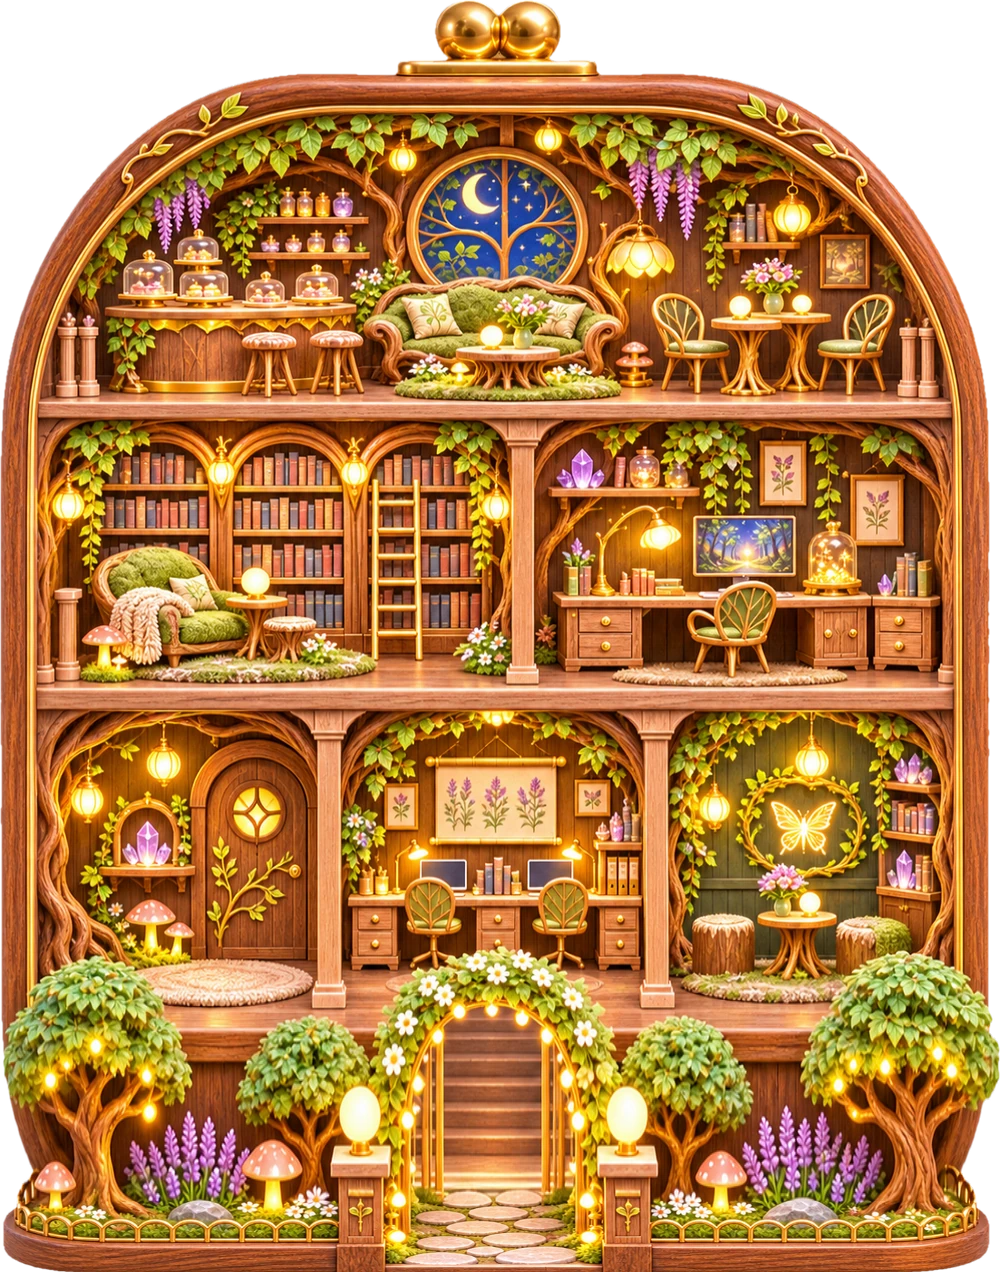
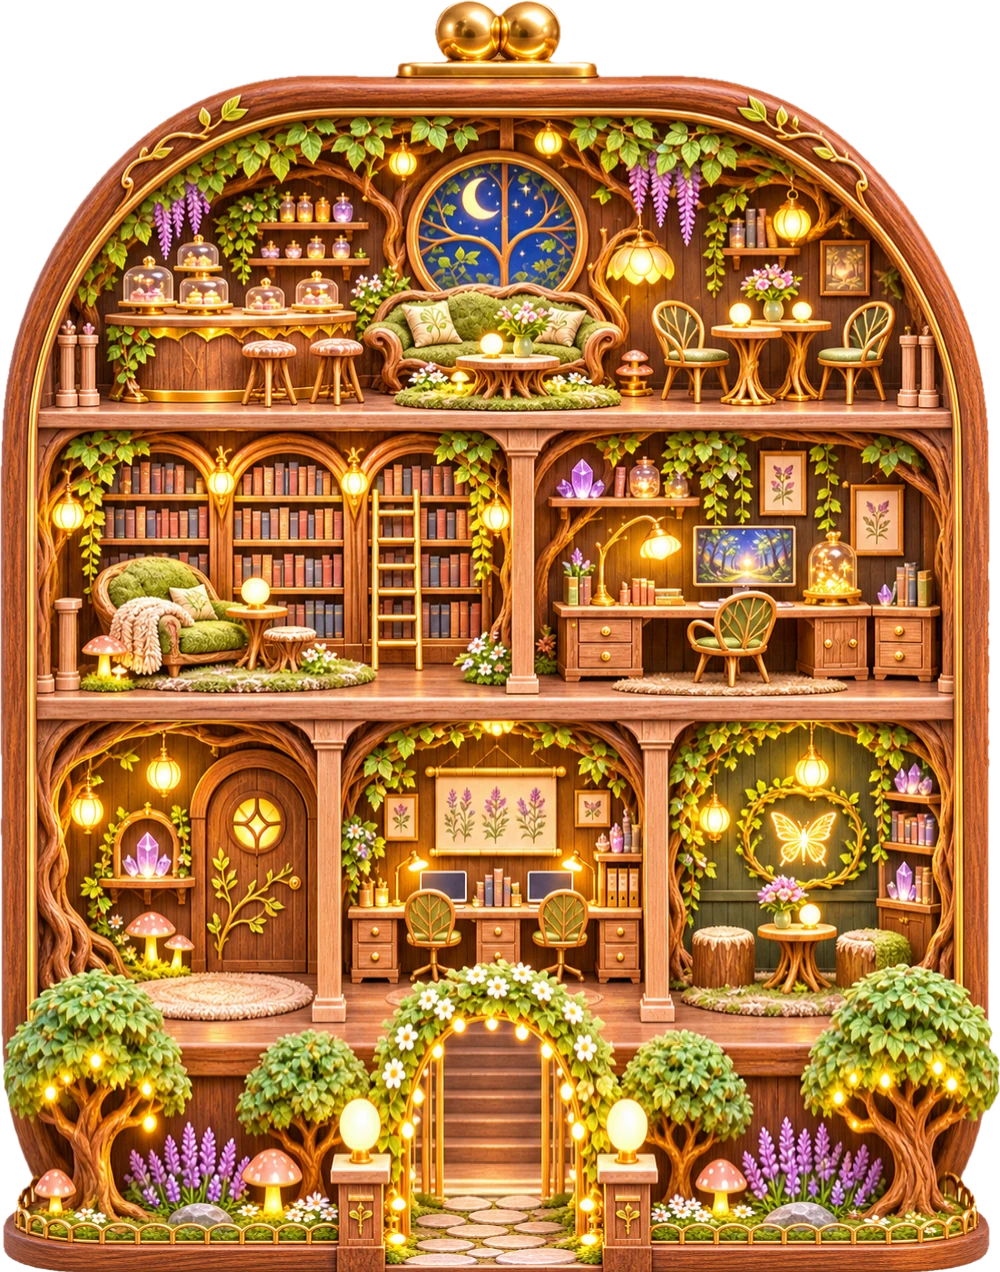
나무 하우스를 조금 내림, 설정에 바닥 맞춤 안내선(눈금) 켜기 추가
Claude-Session: https://claude.ai/code/session_011wWXPaiuu8PZPFdYFKdKKY

diff --git a/src/App.tsx b/src/App.tsx
@@ -98,6 +98,9 @@ export default function App() {
   }, [arrive, revealed])
   const landMode = useLandscape()
   const land = landMode !== null
+  // 바닥 맞춤 안내선 (이 기기에서만, 설정 > 하우스 그림에서 켜요)
+  const [guide, setGuideState] = useState(() => { try { return localStorage.getItem('mow-guide') === '1' } catch { return false } })
+  const setGuide = (v: boolean) => { setGuideState(v); try { localStorage.setItem('mow-guide', v ? '1' : '0') } catch { /* 무시 */ } }
   const phoneLand = landMode === 'phone'
   const [sideTab, setSideTab] = useState<'todo' | 'cal' | 'list'>('todo')
   // 가로 화면에서 하우스를 확대해서 볼 수 있어요 (1~2.6배)
@@ -367,7 +370,7 @@ export default function App() {
         <div className="pipbg" style={{ backgroundImage: `url(${themed(dark).bg})` }} />
         <div className="pipcontent">
         <img className="piplogo" src={themed(dark).logo} alt="MINI OFFICE WORLD" />
-        <House dark={dark} skin={settings.skin} activities={activities} alerts={alerts} cheers={cheers} labels={labels} shown={shown} speech={{ ...speech, ...(userSay ? { user: userSay } : {}) }}
+        <House dark={dark} skin={settings.skin} guide={guide} activities={activities} alerts={alerts} cheers={cheers} labels={labels} shown={shown} speech={{ ...speech, ...(userSay ? { user: userSay } : {}) }}
           remaining={items.length} selected={pipAv}
           onRoom={() => {}} onSelect={(id) => setPipAv((cur) => (id === 'user' || cur === id ? null : id))} />
         {pi && pw && pa ? (
@@ -421,7 +424,7 @@ export default function App() {
 
       <div className="stagewrap">
       <main className="stage">
-        <House dark={dark} skin={settings.skin} activities={activities} alerts={alerts} cheers={cheers} labels={labels} shown={shown} speech={{ ...speech, ...(userSay ? { user: userSay } : {}) }} remaining={items.length} onReceived={onReceived} selected={selected} onRoom={setRoom}
+        <House dark={dark} skin={settings.skin} guide={guide} activities={activities} alerts={alerts} cheers={cheers} labels={labels} shown={shown} speech={{ ...speech, ...(userSay ? { user: userSay } : {}) }} remaining={items.length} onReceived={onReceived} selected={selected} onRoom={setRoom}
           onSelect={pickAvatar} />
       </main>
       {land && (
@@ -517,6 +520,8 @@ export default function App() {
         <Sheet glass tall title="설정" onClose={close}>
           <SettingsView
             tasks={allTasks}
+            guide={guide}
+            onGuide={setGuide}
             settings={settings}
             onSettings={updateSettings}
             onBackedUp={() => setBackupTick((n) => n + 1)}

diff --git a/src/components/House.tsx b/src/components/House.tsx
@@ -20,6 +20,8 @@ interface Props {
   dark?: boolean
   /** 라이트 모드 하우스 그림 (기본·나무·바다) */
   skin?: Skin
+  /** 바닥 맞춤 안내선 보기 (설정에서 켜요) */
+  guide?: boolean
   /** 접수대에서 일을 받기 시작한 아바타 */
   onReceived?: (id: AvatarId) => void
   selected: AvatarId | null
@@ -30,11 +32,25 @@ interface Props {
 /** 글자 수에 맞춘 말풍선 폭 (한글은 넓게, 영문·숫자는 좁게) */
 const tw = (t: string, size: number) => [...t].reduce((n, c) => n + (c.charCodeAt(0) > 255 ? size : size * 0.58), 0)
 
-export default function House({ activities, alerts, cheers, labels, shown, speech, remaining, selected, onSelect, onRoom, dark = false, skin = 'default', onReceived }: Props) {
+export default function House({ activities, alerts, cheers, labels, shown, speech, remaining, selected, onSelect, onRoom, dark = false, skin = 'default', guide = false, onReceived }: Props) {
   const th = themed(dark, skin)
   return (
     <svg viewBox={`0 0 ${th.houseDim.w} ${th.houseDim.h}`} className="house" role="img" aria-label="미니어처 오피스 하우스">
       <image className={`houseimg ${dark && skin !== 'default' ? `nightskin ${skin}` : ''}`} href={th.house} width={th.houseDim.w} height={th.houseDim.h} />
+      {guide && (
+        <g pointerEvents="none" fontSize="19" fontWeight="800">
+          {[408, 690, 1002].map((y0) => (
+            <g key={y0}>
+              {Array.from({ length: 13 }, (_, i) => i - 6).map((k) => (
+                <g key={k}>
+                  <line x1="0" x2="1000" y1={y0 + k * 10} y2={y0 + k * 10} stroke={k === 0 ? '#ff2d55' : k < 0 ? '#2d7dff' : '#16a34a'} strokeWidth={k === 0 ? 3 : 1.2} strokeOpacity={k === 0 ? 0.95 : 0.7} />
+                  {(k % 2 === 0) && <text x="6" y={y0 + k * 10 - 3} fill={k === 0 ? '#ff2d55' : k < 0 ? '#2d7dff' : '#16a34a'} stroke="#fff" strokeWidth="3" paintOrder="stroke">{k === 0 ? '아바타 발' : k < 0 ? `위 ${-k * 10}` : `아래 ${k * 10}`}</text>}
+                </g>
+              ))}
+            </g>
+          ))}
+        </g>
+      )}
       {/* 방을 누르면 확대해서 볼 수 있게 하는 투명 영역 */}
       {ROOMS.map((r) => (
         <rect key={r.id} className="hot" x={r.rect.x} y={r.rect.y} width={r.rect.w} height={r.rect.h} fill="#fff" fillOpacity="0"

diff --git a/src/components/SettingsView.tsx b/src/components/SettingsView.tsx
@@ -21,6 +21,8 @@ const SCHEDULE_FIELDS: [keyof typeof DEFAULT_SCHEDULE, string][] = [
 
 interface Props {
   tasks: Task[]
+  guide: boolean
+  onGuide: (v: boolean) => void
   settings: Settings
   onSettings: (s: Settings) => void
   onReplace: (tasks: Task[], settings: Settings) => Promise<boolean>
@@ -29,7 +31,7 @@ interface Props {
   time: { now: number; simulated: boolean; playing: boolean; setSim: (v: number | null) => void; setPlaying: (v: boolean | ((p: boolean) => boolean)) => void }
 }
 
-export default function SettingsView({ tasks, settings, onSettings, onReplace, onBackedUp, time }: Props) {
+export default function SettingsView({ tasks, guide, onGuide, settings, onSettings, onReplace, onBackedUp, time }: Props) {
   const sound = useSoundPrefs()
   const sync = useSyncStatus()
   const [snaps, setSnaps] = useState(listSnapshots)
@@ -152,6 +154,8 @@ export default function SettingsView({ tasks, settings, onSettings, onReplace, o
             </button>
           ))}
         </div>
+        <button className="ghost" onClick={() => onGuide(!guide)}>{guide ? '📏 바닥 맞춤 선 끄기' : '📏 바닥 맞춤 선 켜기'}</button>
+        <p className="muted">켜면 하우스 위에 층마다 눈금선이 그려져요. 빨간 선이 아바타 발 높이고, 파랑은 위로, 초록은 아래로 10단위씩이에요. 바닥(카펫)이 어느 선에 오면 좋을지 알려주세요.</p>
         <p className="muted">다크 모드에서는 같은 그림이 밤 분위기로 어두워져요. 방을 눌러 크게 볼 때 나오는 방 그림은 아직 기본 그림이에요.</p>
       </section>
 

diff --git a/tools/process_assets.py b/tools/process_assets.py
@@ -162,7 +162,7 @@ _OLD_SHIFT = {
     'wood': [(0, 0), (408, 9), (690, 14), (1002, -17), (1212, -62), (1272, -22)],
     'sea': [(0, 0), (408, -11), (690, -8), (1002, -17), (1212, -62), (1272, -22)],
 }
-_RUG_MOVE = {'wood': (2, 2, 25), 'sea': (-16, -21, -27)}
+_RUG_MOVE = {'wood': (-8, -8, 10), 'sea': (-16, -21, -27)}
 
 
 def _skin_shift(key):
